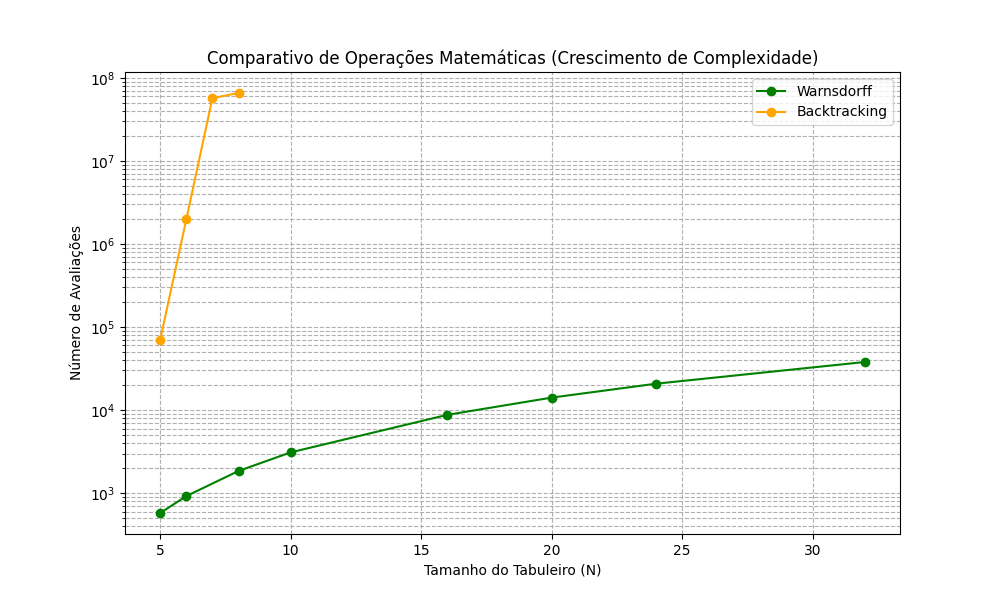
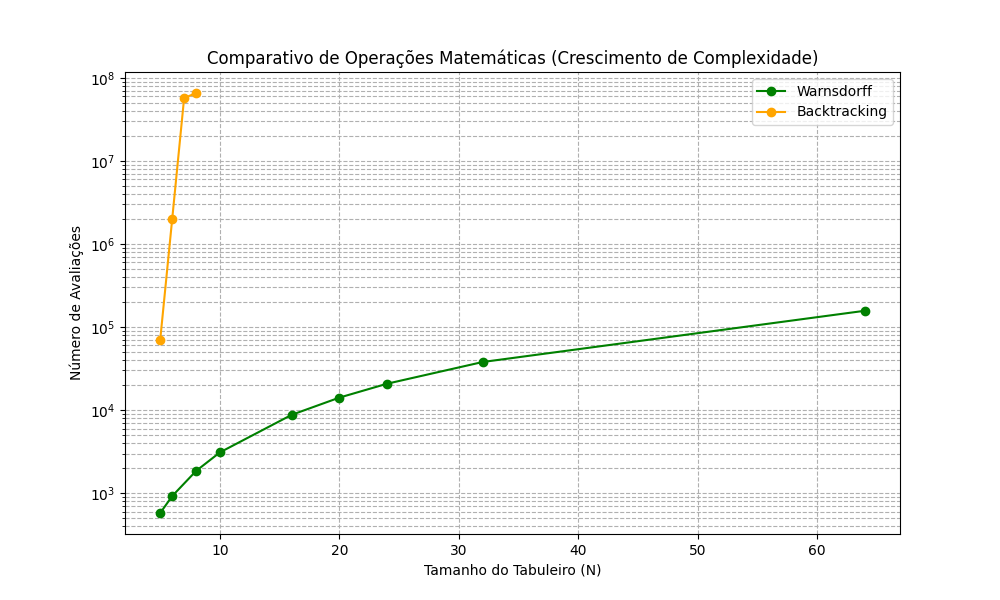
remove comments

diff --git a/gerar_graficos.py b/gerar_graficos.py
@@ -3,16 +3,14 @@ import matplotlib.pyplot as plt
 from passeio_cavalo import PasseioDoCavalo
 
 def realizar_benchmark():
-    # Tamanhos que vamos testar
-    tamanhos_warnsdorff = [5, 6, 8, 10, 16, 20, 24, 32]
-    tamanhos_backtrack = [5, 6, 7, 8] # Backtrack trava se passar de 6x6
+    tamanhos_warnsdorff = [5, 6, 8, 10, 16, 20, 24, 32, 64]
+    tamanhos_backtrack = [5, 6, 7, 8]
     
     tempos_w, operacoes_w = [], []
     tempos_b, operacoes_b = [], []
     
     print("Iniciando bateria de testes...")
     
-    # 1. Testando Warnsdorff
     for n in tamanhos_warnsdorff:
         passeio = PasseioDoCavalo(n, 0, 0)
         inicio = time.perf_counter()
@@ -23,7 +21,6 @@ def realizar_benchmark():
         operacoes_w.append(passeio.avaliacoes)
         print(f"Warnsdorff {n}x{n} concluído.")
         
-    # 2. Testando Backtracking (Atenção: o 6x6 pode levar alguns segundos/minutos)
     for n in tamanhos_backtrack:
         passeio = PasseioDoCavalo(n, 0, 0)
         inicio = time.perf_counter()
@@ -34,12 +31,10 @@ def realizar_benchmark():
         operacoes_b.append(passeio.avaliacoes)
         print(f"Backtracking {n}x{n} concluído.")
 
-
     plt.figure(figsize=(10, 6))
     plt.plot(tamanhos_warnsdorff, tempos_w, marker='o', color='blue', label='Warnsdorff (Polinomial)')
     plt.plot(tamanhos_backtrack, tempos_b, marker='o', color='red', label='Backtracking (Exponencial)')
     
-    # Usando escala logarítmica (igual o professor fez no PDF) para mostrar a explosão
     plt.yscale('log') 
     
     plt.title("Comparativo de Tempo de Execução (Escala Logarítmica)")
@@ -47,7 +42,7 @@ def realizar_benchmark():
     plt.ylabel("Tempo (Segundos)")
     plt.grid(True, which="both", ls="--")
     plt.legend()
-    plt.savefig("grafico_tempo.png") # Salva a imagem
+    plt.savefig("grafico_tempo.png")
     plt.close()
 
     plt.figure(figsize=(10, 6))
@@ -60,7 +55,7 @@ def realizar_benchmark():
     plt.ylabel("Número de Avaliações")
     plt.grid(True, which="both", ls="--")
     plt.legend()
-    plt.savefig("grafico_operacoes.png") # Salva a imagem
+    plt.savefig("grafico_operacoes.png")
     plt.close()
 
     print("Testes finalizados! As imagens 'grafico_tempo.png' e 'grafico_operacoes.png' foram salvas na pasta.")

diff --git a/main.py b/main.py
@@ -1,4 +1,3 @@
-# main.py
 import tkinter as tk
 from gui import InterfacePasseio
 

diff --git a/README.md b/README.md
@@ -1,6 +1,6 @@
 # Passeio do Cavalo
 
-Implementação da solução computacional para o problema do Passeio do Cavalo utilizando a Heurística de Warnsdorff em Python. 
+Implementação da solução computacional para o problema do Passeio do Cavalo utilizando a Heurística de Warnsdorff e algoritmo de backtracking em Python. 
 Trabalho prático para a disciplina de Teoria da Computação.
 
 ## Como executar
